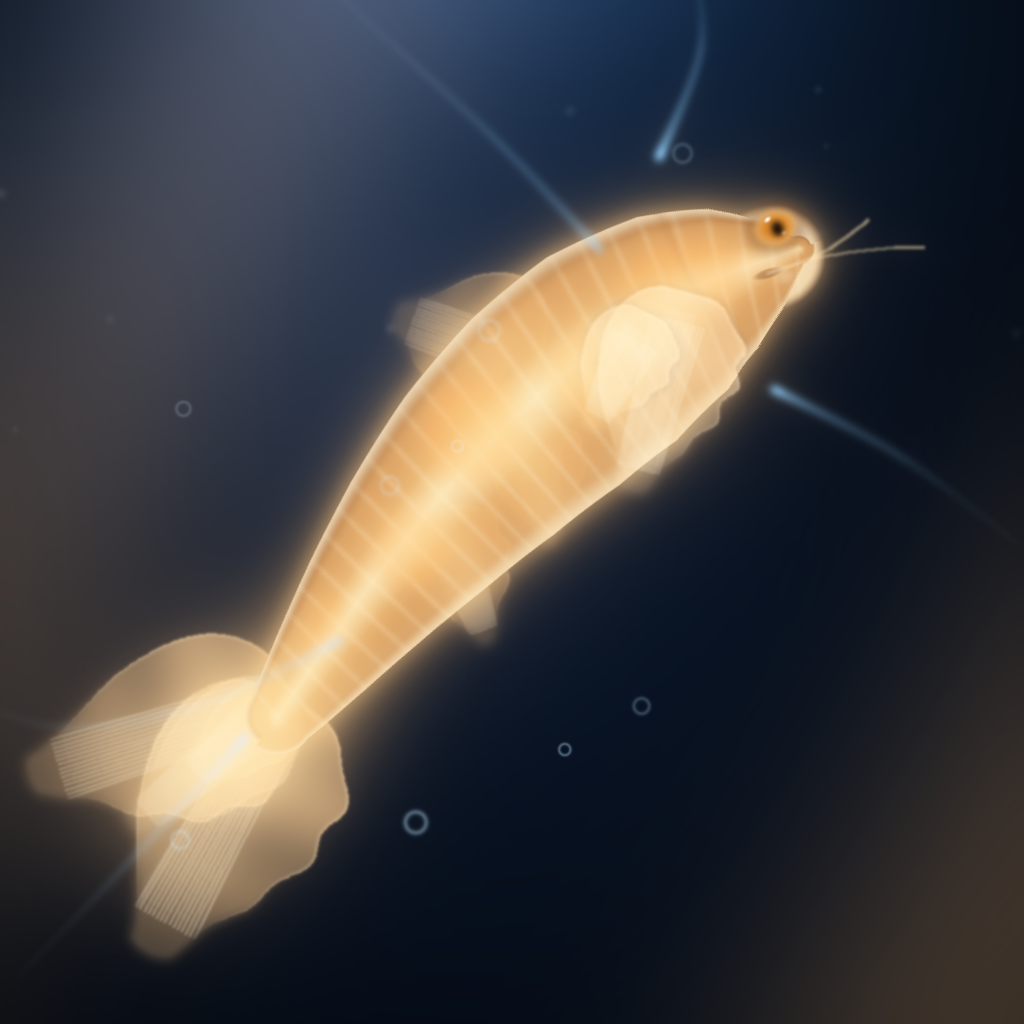
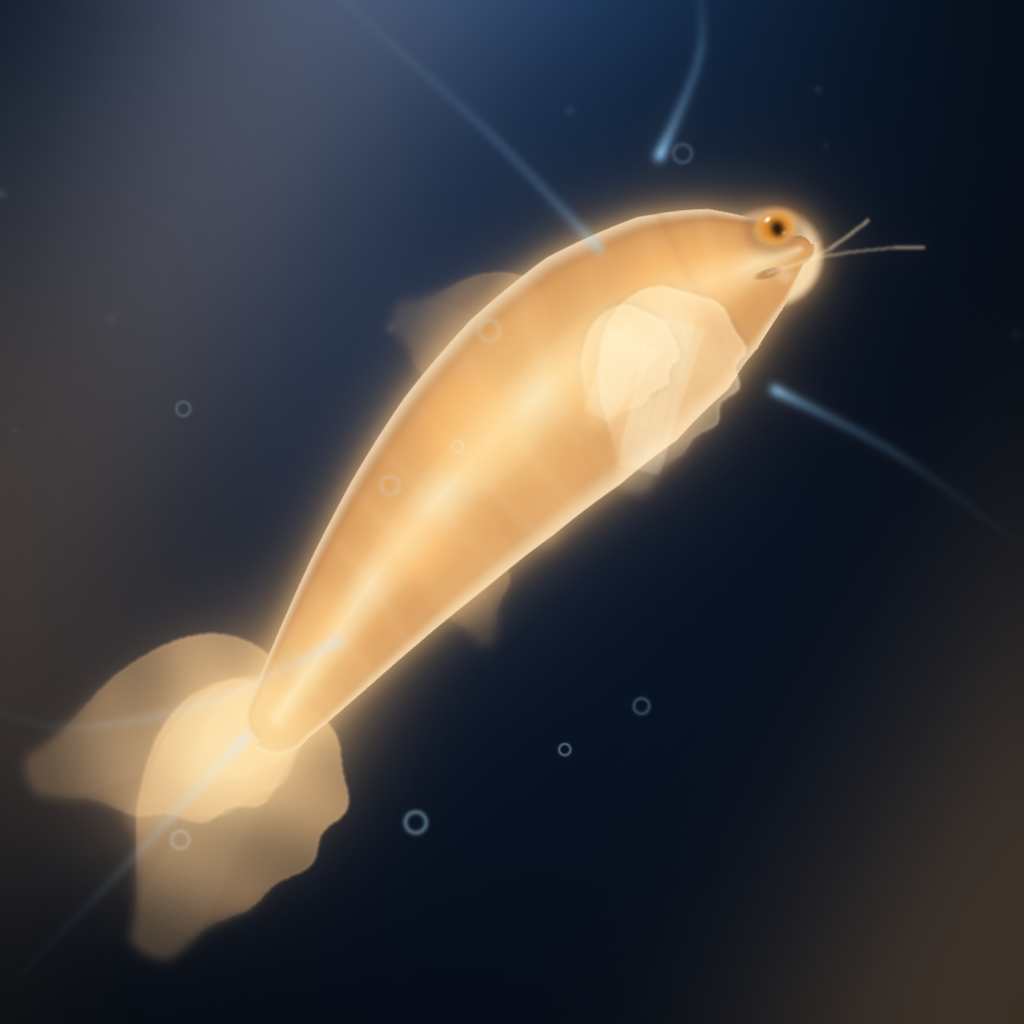
art: koi of light - final entry image, copier and notes

diff --git a/tools/render.py b/tools/render.py
@@ -207,8 +207,11 @@ FRONT_FINS = [
     (pec2, 0.52, (255, 206, 152), (255, 242, 212)),
 ]
 
+# veil for back-fin rays / membrane where they cross the translucent body
+BACK_RAY = 0.30
 
-def draw_fin(scene, glow, fin, mul, col, hot):
+
+def draw_fin(scene, glow, fin, mul, col, hot, rm=1.0):
     lead, trail, ctr, cap = fin
     root = ctr[0]
     ang = math.atan2(ctr[-1][1] - ctr[0][1], ctr[-1][0] - ctr[0][0])
@@ -231,11 +234,11 @@ def draw_fin(scene, glow, fin, mul, col, hot):
         p1 = (cx + (lead[i][0] - trail[i][0]) * v * 0.5,
               cy + (lead[i][1] - trail[i][1]) * v * 0.5)
         segs.append(([p0, ((p0[0] + p1[0]) / 2, (p0[1] + p1[1]) / 2), p1], 3))
-    rays = strokes(segs, blur=1.1) * alpha
+    rays = strokes(segs, blur=1.1) * alpha * rm
     a = alpha * geom * mul * ripple
     scene = over(scene, a, col)
     edge = np.clip(alpha - soft(alpha, 2.0), 0, 1)
-    scene = over(scene, edge * mul * 1.0, (255, 250, 234))
+    scene = over(scene, edge * mul * 1.0 * rm, (255, 250, 234))
     # finer secondary veins
     segs2 = []
     for k in range(-10, 11):
@@ -248,9 +251,9 @@ def draw_fin(scene, glow, fin, mul, col, hot):
         p1 = (cx + (lead[i][0] - trail[i][0]) * v * 0.5,
               cy + (lead[i][1] - trail[i][1]) * v * 0.5)
         segs2.append(([p0, p1], 1))
-    rays2 = strokes(segs2, blur=1.2) * alpha
+    rays2 = strokes(segs2, blur=1.2) * alpha * rm
     mixed = np.clip(a * 0.50 + rays * 0.75 + edge * 1.0, 0, 1)
-    scene = over(scene, mixed * 0.55 * mul, hot)
+    scene = over(scene, mixed * 0.55 * mul * rm, hot)
     scene = over(scene, rays2 * 0.34 * mul * geom, (255, 250, 230))
     # contact shadow so the membrane separates from the body it crosses
     sep = np.clip(soft(alpha, 5.0) - alpha, 0, 1) * body
@@ -287,7 +290,7 @@ scene = wat.copy()
 glow = np.zeros((H, W), np.float32)
 SIL = np.zeros((H, W), np.float32)
 for fin, mul, col, hot in BACK_FINS:
-    scene, glow = draw_fin(scene, glow, fin, mul, col, hot)
+    scene, glow = draw_fin(scene, glow, fin, mul, col, hot, BACK_RAY)
 
 # ---------------------------------------------------------------- body
 p = np.clip(R / np.maximum(BW, 1e-3), -1.5, 1.5)
@@ -296,12 +299,16 @@ SIL[:] = np.clip(SIL + body, 0, 1)
 scene = over(scene, soft(body, 26) * 0.55, (255, 176, 92))
 scene = over(scene, soft(body, 9) * 0.45, (255, 196, 120))
 # translucent base wash so the water reads through the body
-scene = over(scene, body * 0.62, (198, 116, 56))
+scene = over(scene, body * 0.72, (198, 116, 56))
 shade = np.clip(1.0 - np.abs(p - 0.06) / 1.00, 0, 1) ** 0.78
-scales = 0.5 + 0.5 * np.cos(US * 2 * math.pi * 26.0 + p * 2.1)
-scene = over(scene, body * shade * (0.50 + 0.08 * scales), (255, 186, 108))
+# soft, warped scale sheen: wide and uneven so the flanks never read as ribs
+warp = 1.7 * np.sin(US * 6.3 + 0.7) + 0.9 * np.sin(US * 11.0 - p * 1.3)
+scales = 0.5 + 0.5 * np.cos(US * 2 * math.pi * 13.0 + p * 2.1 + warp)
+scales = soft(scales, 2.5)
+env = 0.55 + 0.45 * np.sin(US * 2 * math.pi * 1.6 + p * 1.2) ** 2
+scene = over(scene, body * shade * (0.47 + 0.05 * (scales - 0.5) * 2.0 * env), (255, 186, 108))
 # scale glints
-scene = over(scene, body * (scales ** 7) * 0.16, (255, 244, 216))
+scene = over(scene, body * (np.clip(scales, 0, 1) ** 6) * 0.06 * env, (255, 244, 216))
 core = body * np.clip(1.0 - np.abs(p + 0.02) / 0.36, 0, 1) ** 1.15
 scene = over(scene, core * 0.62, (255, 234, 190))
 # koi pattern: patches of light along the body (kohaku-like)

diff --git a/main.py b/main.py
@@ -2,23 +2,54 @@
 """make.fun entry - "Koi of Light".
 
 Copies the artwork sitting next to this file (entry.png) into the output
-directory, byte for byte. Standard library only, deterministic, offline.
+directory, byte for byte. Standard library only, deterministic, offline, and it
+never redraws anything.
 
-Output: $MAKEFUN_OUTPUT_DIR/entry.png  (default: /output/entry.png)
+Output: $MAKEFUN_OUTPUT_DIR/entry.png  (fallback: /output/entry.png)
+Exits non-zero if the copy is missing or not byte-identical to entry.png.
 """
 
+import hashlib
 import os
-import pathlib
+import shutil
+import sys
 
-ENTRY_NAME = "entry.png"
-SOURCE = pathlib.Path(__file__).resolve().parent / ENTRY_NAME
-OUTPUT_DIR = pathlib.Path(os.environ.get("MAKEFUN_OUTPUT_DIR") or "/output")
+NAME = "entry.png"
+FALLBACK_DIR = "/output"
 
 
-def main() -> None:
-    OUTPUT_DIR.mkdir(parents=True, exist_ok=True)
-    (OUTPUT_DIR / ENTRY_NAME).write_bytes(SOURCE.read_bytes())
+def sha256(path):
+    h = hashlib.sha256()
+    with open(path, "rb") as f:
+        for chunk in iter(lambda: f.read(1 << 20), b""):
+            h.update(chunk)
+    return h.hexdigest()
+
+
+def main():
+    src = os.path.join(os.path.dirname(os.path.abspath(__file__)), NAME)
+    if not os.path.isfile(src):
+        print("entry.png not found next to main.py", file=sys.stderr)
+        return 2
+
+    out_dir = os.environ.get("MAKEFUN_OUTPUT_DIR", "").strip() or FALLBACK_DIR
+    out_dir = os.path.abspath(os.path.expanduser(out_dir))
+    os.makedirs(out_dir, exist_ok=True)
+    dst = os.path.join(out_dir, NAME)
+
+    shutil.copyfile(src, dst)
+
+    src_size, dst_size = os.path.getsize(src), os.path.getsize(dst)
+    if dst_size != src_size:
+        print("copy size mismatch: %d != %d" % (dst_size, src_size), file=sys.stderr)
+        return 3
+    if sha256(dst) != sha256(src):
+        print("copy is not byte-identical to entry.png", file=sys.stderr)
+        return 4
+
+    print("copied %s -> %s (%d bytes, sha256 %s)" % (src, dst, dst_size, sha256(dst)))
+    return 0
 
 
 if __name__ == "__main__":
-    main()
+    sys.exit(main())

diff --git a/NOTES.md b/NOTES.md
@@ -1,24 +1,17 @@
 # Notes
 
-Concept: a koi drawn as living light rather than as a photographed fish. The
-warm gold body against the cold dark water carries the whole idea.
+Concept: a koi made of light rather than a photographed fish. The whole idea is
+the contrast - a warm gold body that carries its own glow, hanging on the
+diagonal through cold blue-black water.
 
-How the studio works (tools/render.py, numpy + Pillow, no randomness):
+Palette: amber-gold body (#FDDB9E core, #EAC590 glow, #C67438 wash), deep
+indigo water (#262F3E at the top, going blacker downwards), pale blue caustics,
+trails and bubble rings, and a cream rim (#FFF0CE) that lifts the fish off the
+dark.
 
-- A spine curve runs from the blunt head, upper right, to the peduncle, lower
-  left; it is resampled by arc length so proportions stay chunky - deep
-  shoulders, narrow tail root.
-- Fins are grown off that spine as ribbons, then blurred and sunk into the
-  body so they read as silk rather than as cut-outs.
-- The fish is painted as layers: a translucent wash that lets the water show
-  through, light bleeding into the surrounding water, kohaku-like patches of
-  brightness, scale glints, and a flare that glues the forked tail into the
-  body.
-- The water layer adds a soft pool of light, tilted shafts, caustic ripples
-  and a few motes and bubble rings.
-- A final bloom pass softens the highlights. The eye and barbels go on last,
-  above the bloom, so the head always reads clearly even at thumbnail size.
-
-The entry itself is static: `main.py` writes the finished `entry.png` byte for
-byte into `$MAKEFUN_OUTPUT_DIR` (default `/output`), standard library only, so
-the delivered picture is exactly the frame the studio produced.
+What makes it the coolest art: the body is translucent, so the water reads
+through it; the fins grow off the spine as ribbons and dissolve from crisp silk
+at the root into soft membrane at the tip. The final passes veil the back-fin
+rays and spread the scale sheen wide and uneven, so the flanks never turn into a
+mechanical rib cage at thumbnail size - the koi stays organic at 300px. The eye
+and barbels go on last, above the bloom, so the head reads sharply at any size.

diff --git a/README.md b/README.md
@@ -1,17 +1,14 @@
 # Koi of Light
 
-A koi fish made of light, swimming through dark water.
+A koi drawn as living light, swimming through dark water: head and bright eye
+to the upper right, forked silky tail sweeping down to the lower left.
 
-The picture is 1024x1024, 8-bit RGB. A single carp hangs on the diagonal: head
-and bright eye toward the upper right, tail sweeping down to the lower left.
-Its body is translucent amber, lit from inside, with patches of brighter light
-along the flank. Soft silk fins sit on the body, the caudal fin forks and
-frays, and two thin barbels mark the mouth. Around it the water is deep
-blue-black, crossed by tilted light shafts, faint caustic ripples and a few
-ring-shaped bubbles.
+The image is 1024x1024, 8-bit RGB, and is produced by `tools/render.py`
+(numpy + Pillow, no randomness - the same frame every run). Palette: amber-gold
+body (around #FDDB9E with #EAC590 glow) against deep blue-black water, with
+pale blue caustics and a cream rim that separates the fish from the dark.
 
-`tools/render.py` is the studio that drew it: a numpy + Pillow program that
-builds the fish procedurally from a curve skeleton, then composites glow,
-water and bloom into one deterministic frame. `main.py` is the entry - it
-copies the finished `entry.png` byte for byte into `$MAKEFUN_OUTPUT_DIR`
-(default `/output`) using the standard library only.
+Regenerate the picture: `python3 tools/render.py entry.png` (also writes a
+300px twin).
+Run the entry: `MAKEFUN_OUTPUT_DIR=/somewhere python3 main.py` copies `entry.png`
+byte for byte with the standard library only (default output `/output`).
